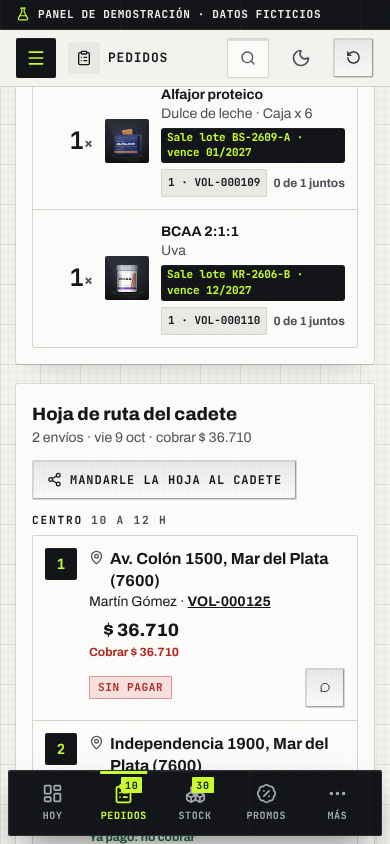
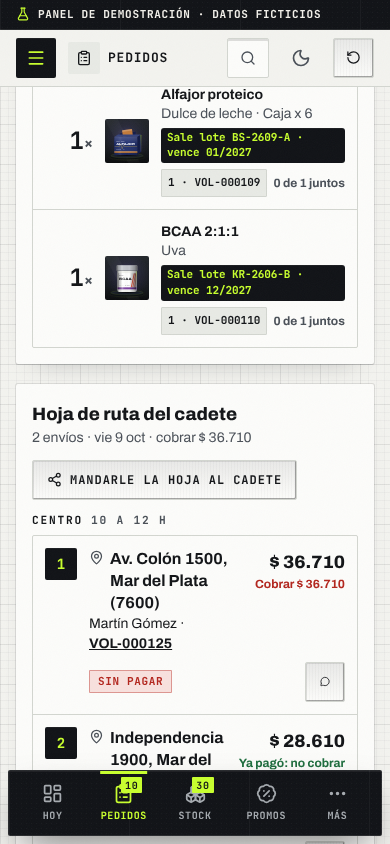
R4b: WhatsApp también en el calendario y en la ficha del reclamo
La ficha de un despacho del calendario y la del reclamo con pedido traen
"Escribirle por WhatsApp" con el mensaje de su estado. El código del pedido
no se corta en la hoja de ruta del celular. Capturas al día.

Claude-Session: https://claude.ai/code/session_01Kt4dPryhLvCL1gZD6xXjK4

diff --git a/src/features/admin/calendar/ScheduleSheet.tsx b/src/features/admin/calendar/ScheduleSheet.tsx
@@ -13,6 +13,7 @@ import { closureFor, nextWorkday, prevWorkday } from "@/demo/engine/workdays";
 import type { WorkshopSettings } from "@/demo/fixtures/workshop";
 import { formatDay } from "@/lib/date";
 import { fulfillmentLabel } from "../OrderCard";
+import { OrderWhatsapp } from "../orders/OrderWhatsapp";
 import { InlineConfirm } from "./ImpactConfirm";
 import { capacityText } from "./MonthView";
 import { PickDate } from "./PickDate";
@@ -103,9 +104,12 @@ export function ScheduleSheet({ order, orders, settings, today, late, movable, w
                 <p className="text-xs text-muted">En escritorio también podés arrastrar el pedido a otro día del calendario. En producción, el cliente recibiría un aviso con la fecha nueva.</p>
               </section>
             ) : <p className="text-sm text-muted">Este pedido ya salió o está cerrado: su fecha no se reprograma.</p>}
-            <Link href={`/admin-demo/pedidos/detalle/?codigo=${order.code}`} className="inline-flex items-center gap-1.5 self-start text-sm font-bold text-primary underline">
-              Abrir el pedido completo <ArrowUpRight size={15} aria-hidden="true" />
-            </Link>
+            <div className="flex flex-wrap items-center gap-3">
+              <OrderWhatsapp order={order} />
+              <Link href={`/admin-demo/pedidos/detalle/?codigo=${order.code}`} className="inline-flex items-center gap-1.5 text-sm font-bold text-primary underline">
+                Abrir el pedido completo <ArrowUpRight size={15} aria-hidden="true" />
+              </Link>
+            </div>
           </div>
         </div>
       )}

diff --git a/tests/e2e/r4b-mensajes.spec.ts b/tests/e2e/r4b-mensajes.spec.ts
@@ -74,7 +74,16 @@ const VIEWS: [string, (p: Page) => Locator, string][] = [
   ["admin-demo/pedidos/?q=VOL-000117", (p) => p.getByRole("main"), "cancelled"],
   ["admin-demo/pedidos/detalle/?codigo=VOL-000109", (p) => p.getByRole("main"), "payment-approved"],
   ["admin-demo/pagos/detalle/?codigo=VOL-000124", (p) => p.getByRole("main"), "proof-received"],
+  ["admin-demo/reclamos/detalle/?id=c2", (p) => p.getByRole("region", { name: "Pedido" }), "claim"],
 ];
+
+test("calendario de despachos: la ficha del pedido también tiene su WhatsApp", async ({ page }) => {
+  await page.goto("admin-demo/calendario/");
+  await page.getByRole("button", { name: "Agenda", exact: true }).click();
+  await page.getByRole("button", { name: "Reprogramar VOL-000123" }).click();
+  const sheet = page.getByRole("dialog", { name: "Despacho VOL-000123" });
+  await expect(sheet.locator("[data-wa]")).toHaveAttribute("data-wa", "proof-received");
+});
 
 for (const [route, where, id] of VIEWS) {
   test(`/${route}: “Escribirle por WhatsApp” abre el mensaje de su estado (${id}) al teléfono del cliente`, async ({ page }) => {

diff --git a/src/features/admin/dispatch/RouteStop.tsx b/src/features/admin/dispatch/RouteStop.tsx
@@ -30,7 +30,7 @@ export function RouteStop({ stop: s, n, order }: { stop: Stop; n: number; order:
         <div className="grid grid-cols-[minmax(0,1fr)_auto] items-start gap-x-3">
           <div className="min-w-0">
             <p className="flex items-start gap-1.5 font-bold leading-snug"><MapPin size={15} aria-hidden="true" className="mt-0.5 shrink-0 text-muted" />{s.address}</p>
-            <p className="text-sm"><span className="sr-only">Parada {n}: </span>{s.name} · <Link href={`/admin-demo/pedidos/detalle/?codigo=${s.code}`} className="font-bold tabular-nums text-primary underline">{s.code}</Link></p>
+            <p className="text-sm"><span className="sr-only">Parada {n}: </span>{s.name} · <Link href={`/admin-demo/pedidos/detalle/?codigo=${s.code}`} className="whitespace-nowrap font-bold tabular-nums text-primary underline">{s.code}</Link></p>
           </div>
           <div className="text-right">
             <p className="text-lg font-extrabold tabular-nums">{formatARS(s.total)}</p>

diff --git a/src/features/admin/claims/ClaimDetail.tsx b/src/features/admin/claims/ClaimDetail.tsx
@@ -10,6 +10,7 @@ import { useAdmin } from "@/stores/admin";
 import { profileHref } from "../customers/Reminders";
 import { DetailHeader, TrackChip } from "../detail/DetailHeader";
 import { Facts, Panel } from "../detail/Panel";
+import { OrderWhatsapp } from "../orders/OrderWhatsapp";
 import { useDemoSave } from "../useDemoSave";
 import { CLAIM_STATUS, CLAIM_TYPE, isOpenClaim } from "./claimLabels";
 
@@ -49,6 +50,7 @@ export function ClaimDetail() {
             {claim.orderCode ? (
               <Facts items={[["Código", order ? <Link key="o" href={`/admin-demo/pedidos/detalle/?codigo=${order.code}`} className="text-primary underline">{order.code}</Link> : claim.orderCode], ...(order ? [["Estado", STATUS_LABEL[order.status]] as [string, string]] : [])]} />
             ) : <p className="text-sm text-muted">El comprador no indicó un pedido.</p>}
+            {order && <OrderWhatsapp order={order} className="mt-3" />}
           </Panel>
         </div>
       </div>

diff --git a/tests/e2e/admin-polish-details.spec.ts b/tests/e2e/admin-polish-details.spec.ts
@@ -99,7 +99,8 @@ test.describe("escritorio con mouse", () => {
     await page.getByRole("link", { name: /ARR-0007/ }).click();
     await expect(page.getByRole("heading", { level: 1, name: /ARR-0007/ })).toBeVisible();
     await expect(page.getByRole("region", { name: "Mensaje del comprador" })).toContainText("Me arrepentí del pre-entreno");
-    await expect(page.getByRole("region", { name: "Pedido" }).getByRole("link", { name: "VOL-000119" })).toBeVisible();
+    // R4b: el pedido también trae su "Escribirle por WhatsApp" (que nombra el código): el link del pedido es el exacto.
+    await expect(page.getByRole("region", { name: "Pedido" }).getByRole("link", { name: "VOL-000119", exact: true })).toBeVisible();
     await page.getByRole("button", { name: "Marcar en curso" }).click();
     await confirm(page, "Marcar en curso");
     await expect(page.getByText(/Estado:\s*En curso/)).toBeVisible();
